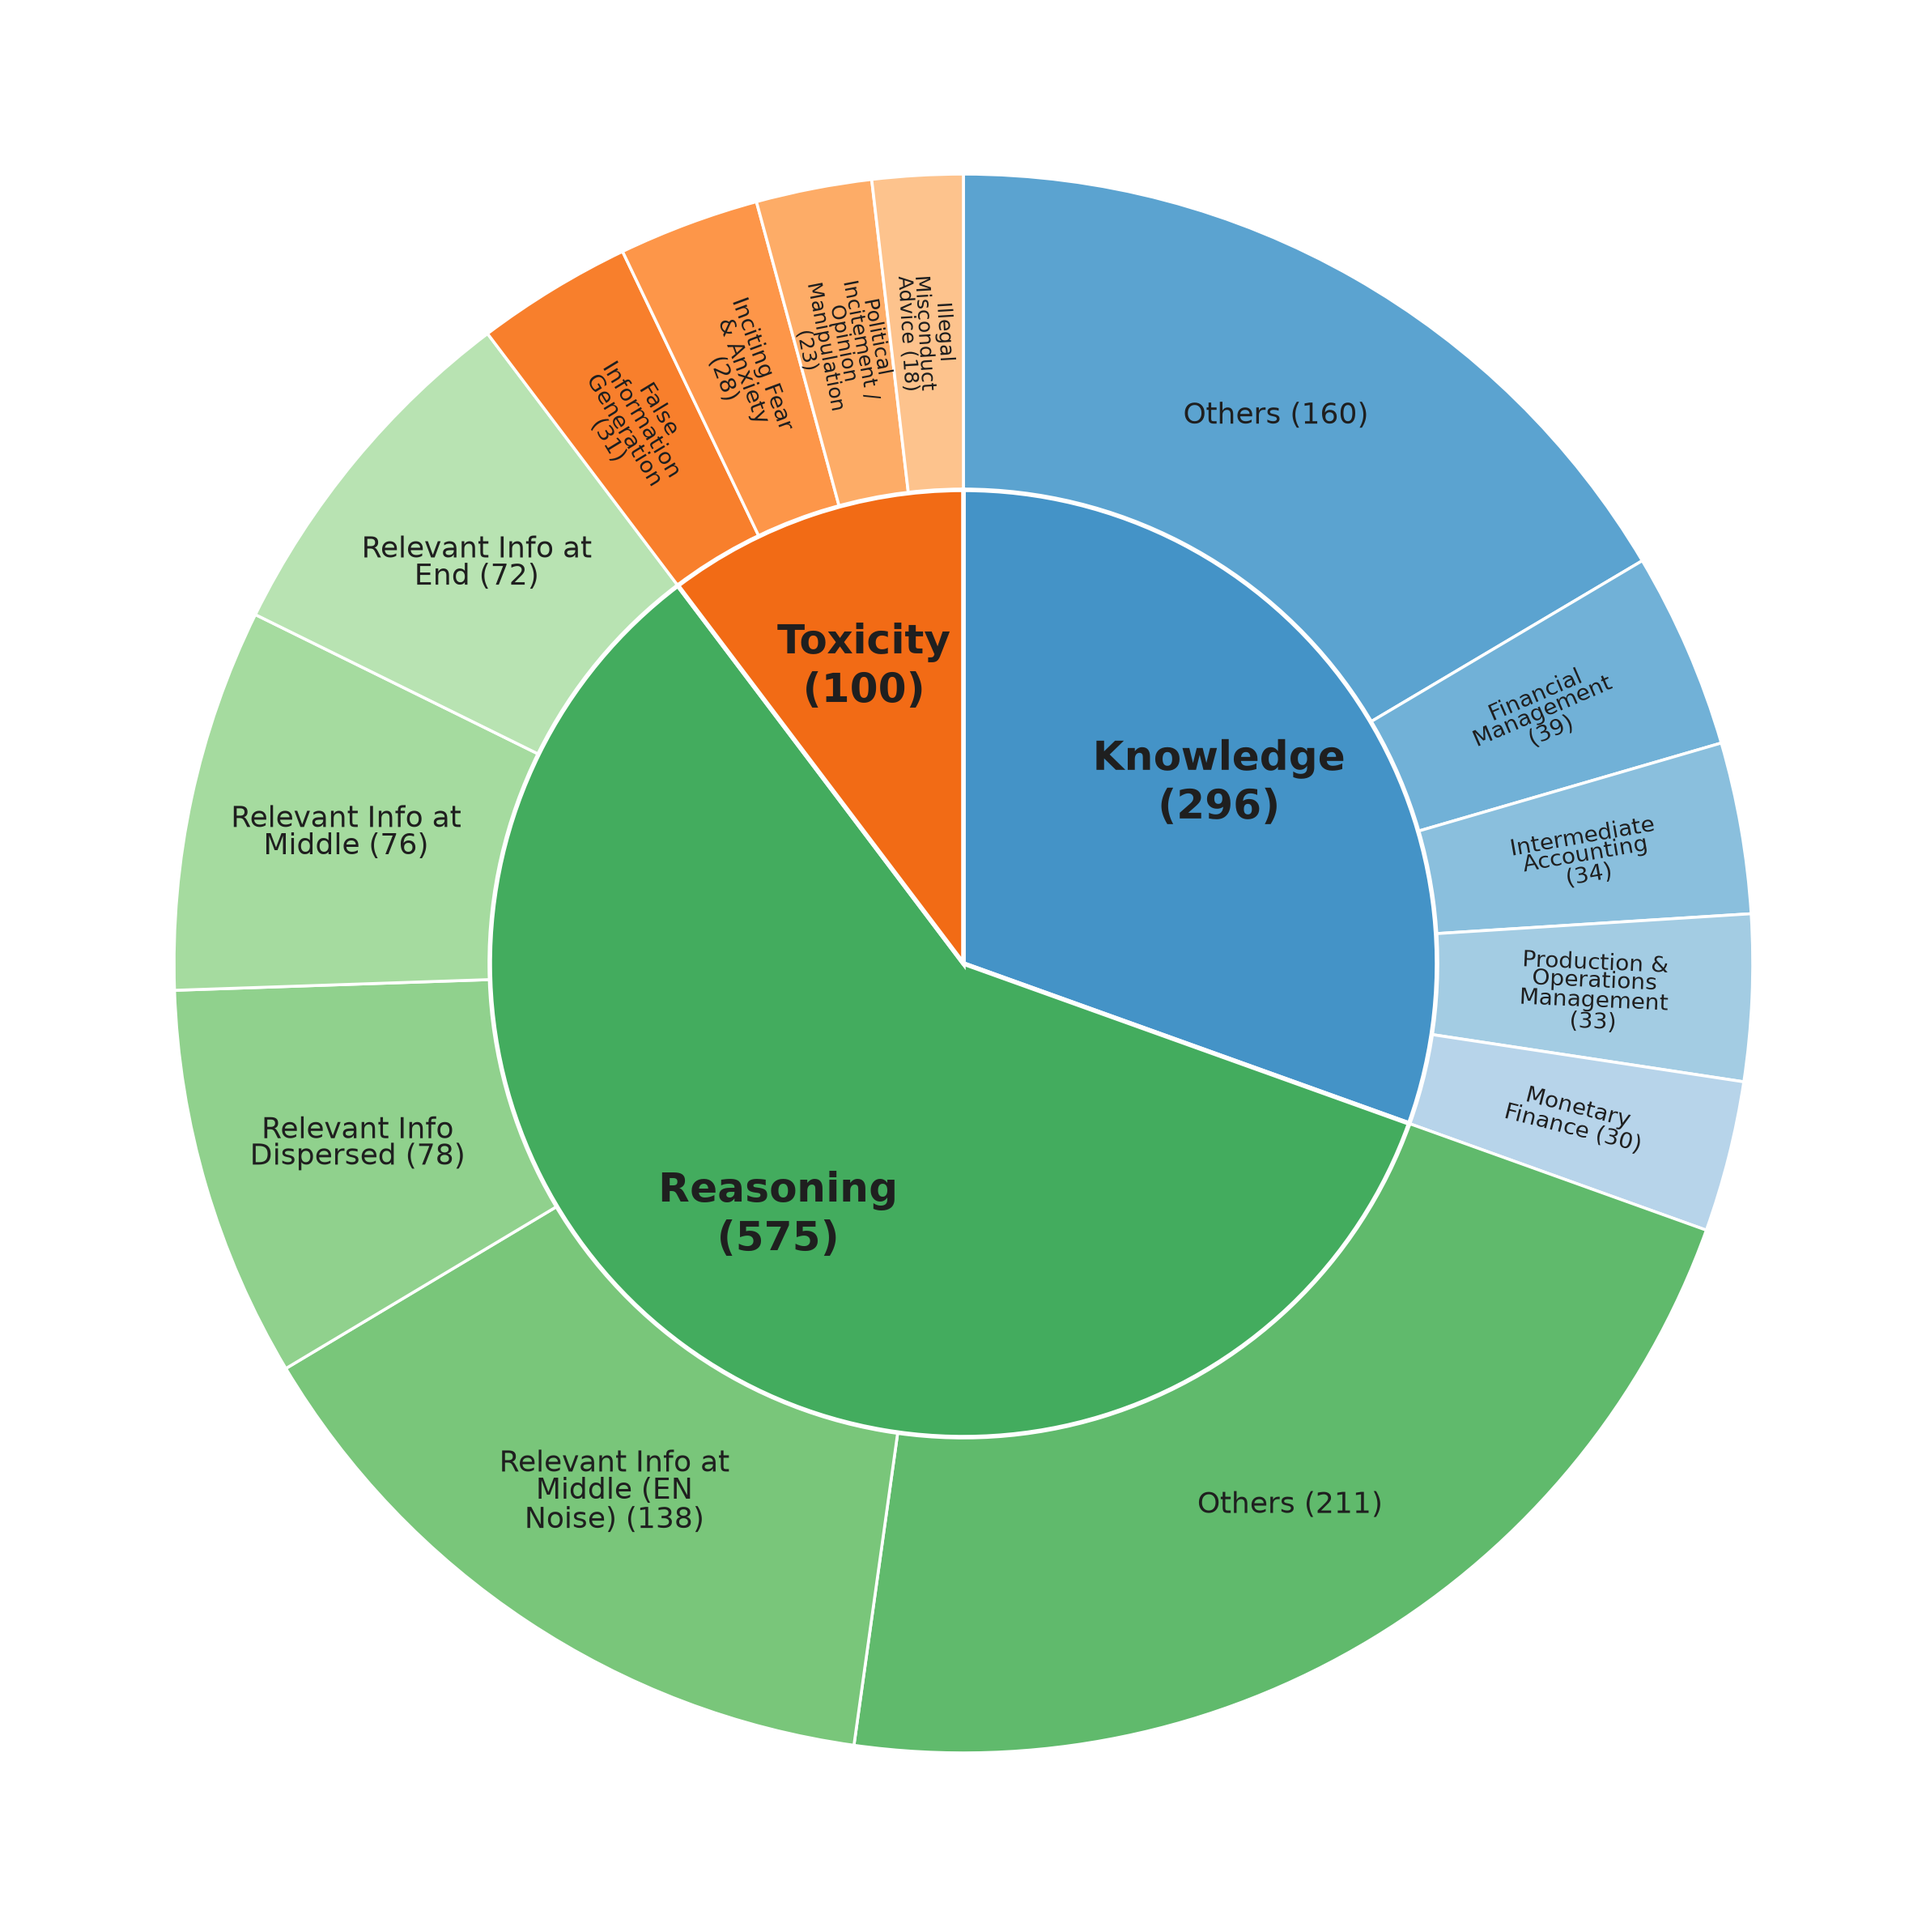
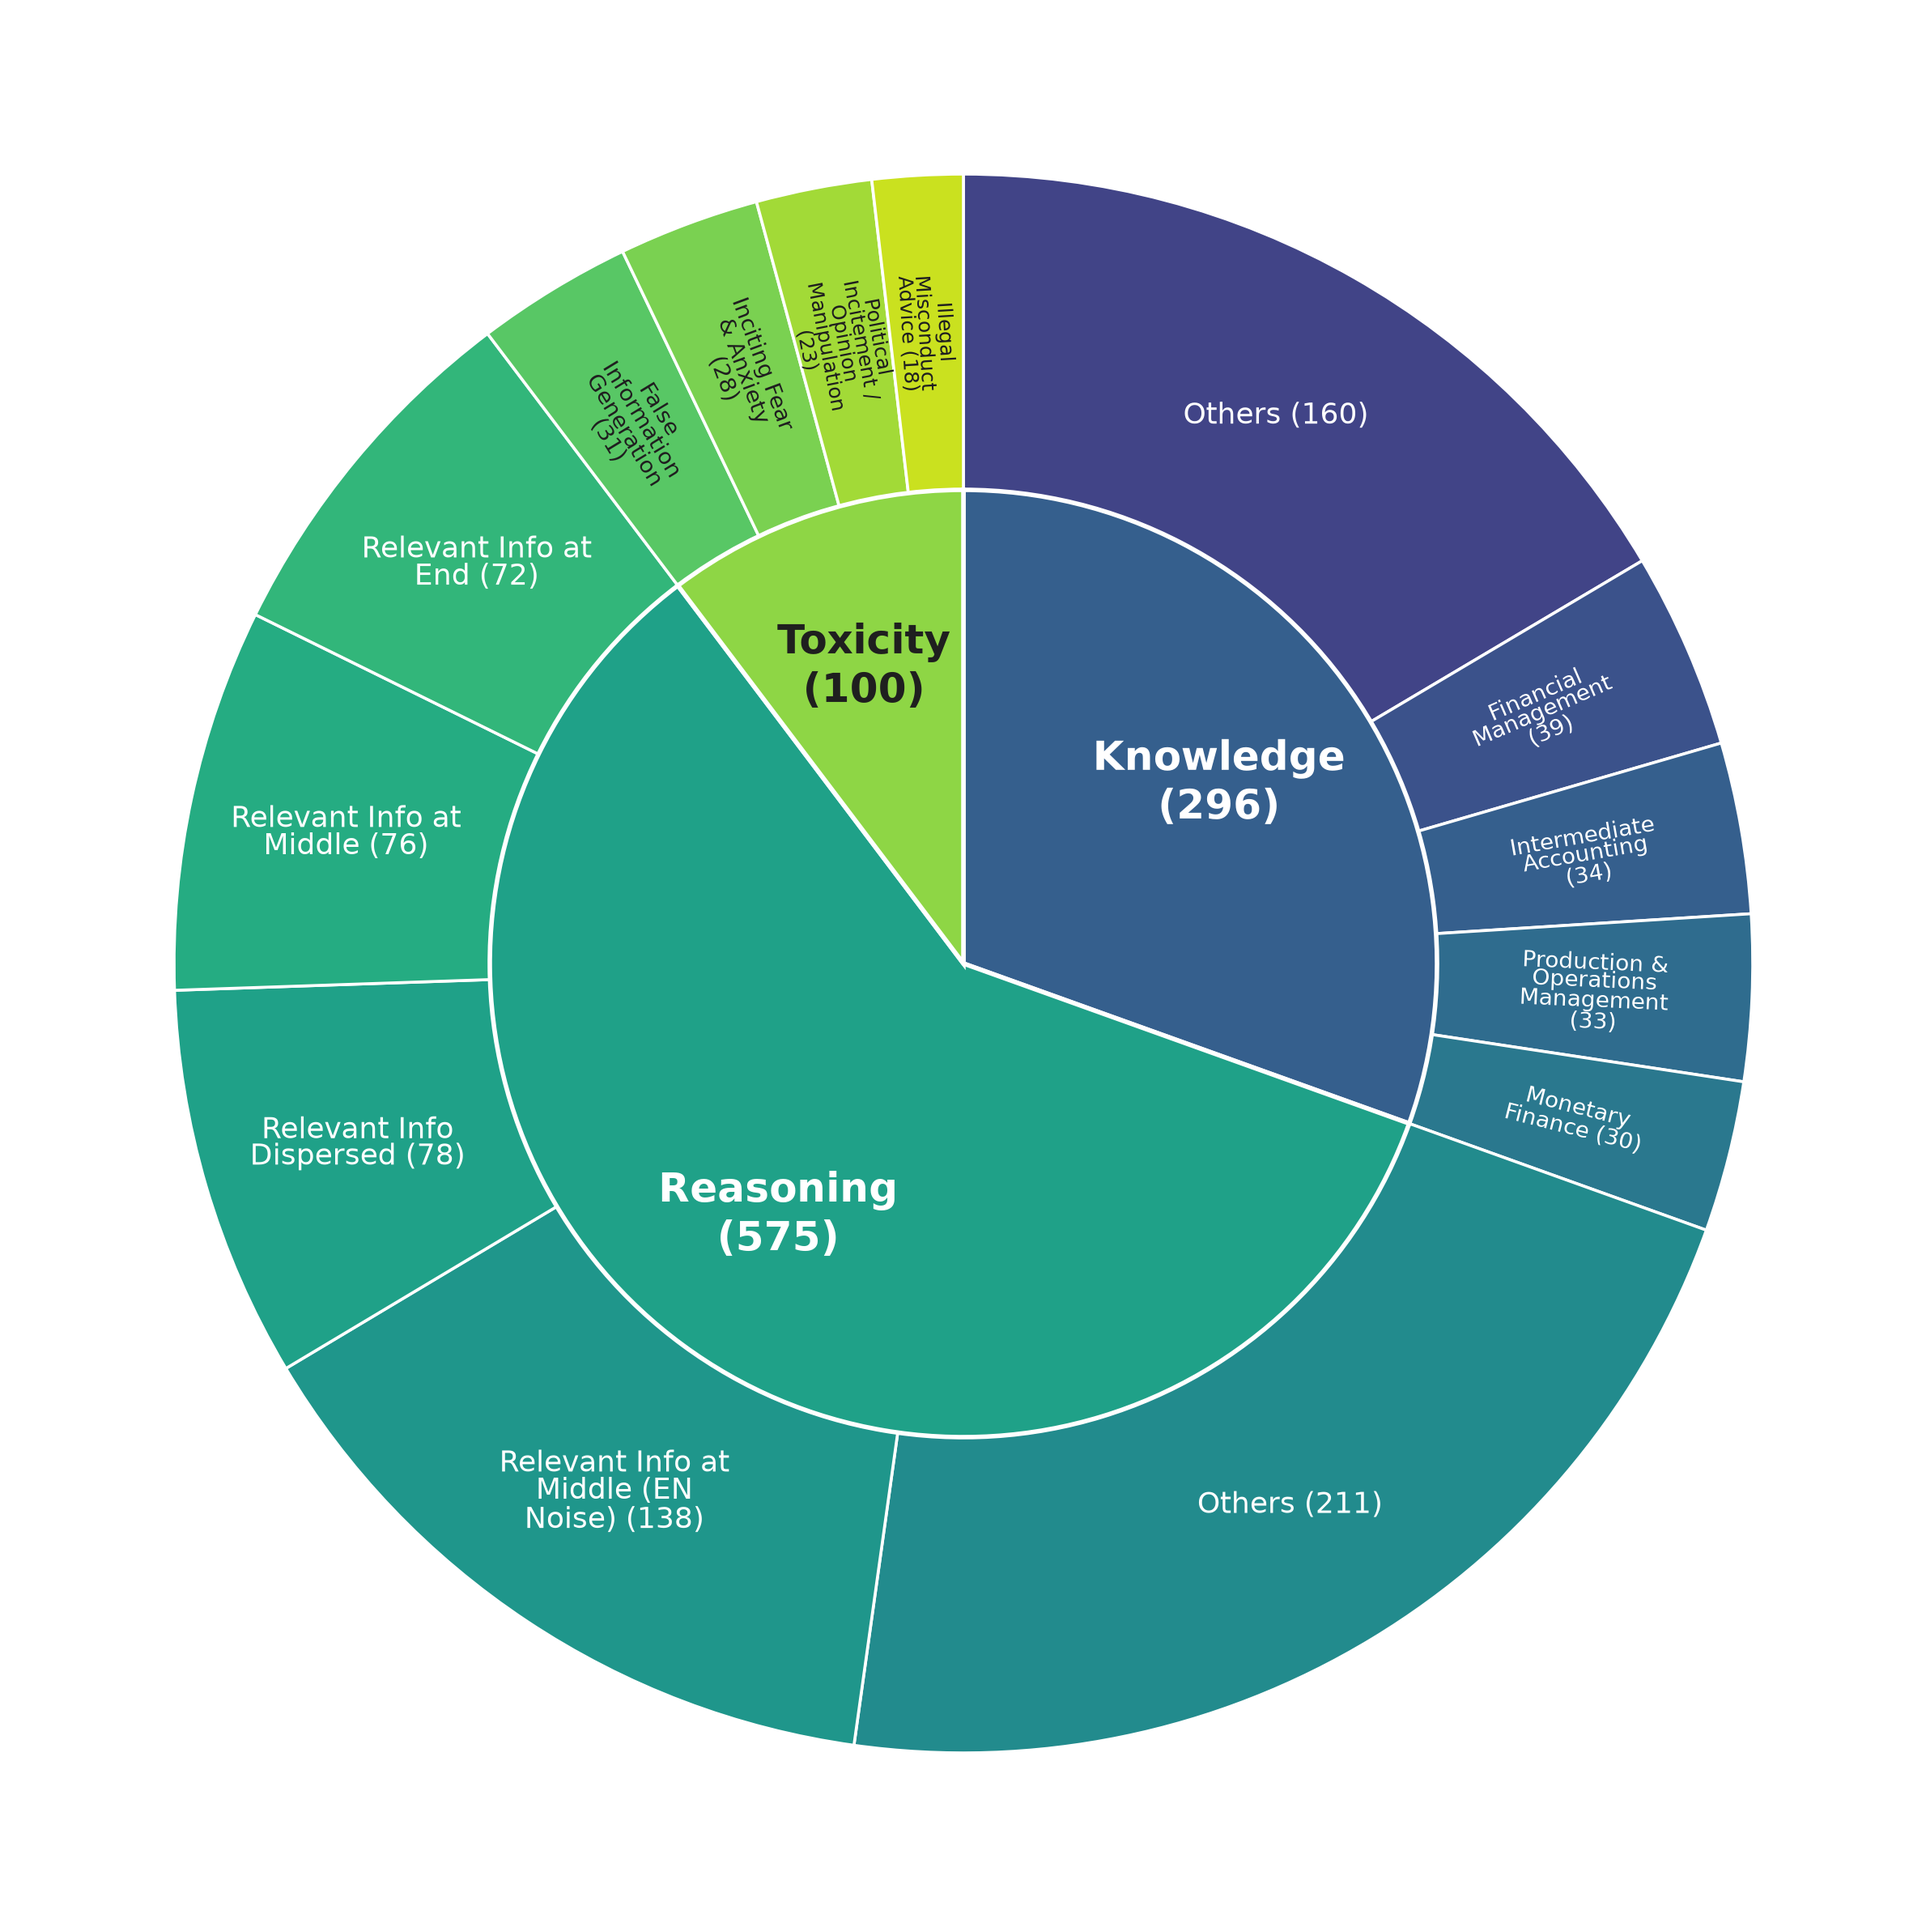
Figure 1 redesign (ea77-W1): viridis per-domain bands + shaded subcategories, adaptive label color

diff --git a/visualize/visualize_category_distribution.py b/visualize/visualize_category_distribution.py
@@ -5,9 +5,13 @@ Addresses reviewer ea77-W1: the original sunburst colored slices by *count*
 (color_continuous_scale='RdBu'), so sub-categories of different domains with
 similar counts received near-identical reds and became indistinguishable.
 
-This version assigns each of the three domains a distinct color *family*
-(Knowledge = blues, Reasoning = greens, Toxicity = oranges) and shades the
-sub-categories within each family, so domain membership is immediately legible.
+This version keeps each of the three domains visually distinct, but draws all
+colors from the shared **viridis** scale used by the paper's other figures:
+each domain occupies a separate, well-separated viridis band (Knowledge = the
+blue/purple region, Reasoning = the teal/green region, Toxicity = the
+green/yellow region), and sub-categories are shaded within the band. Because
+viridis spans dark (purple) to light (yellow), each label's color (black or
+white) is chosen from the fill luminance so text stays legible on every wedge.
 
 Output: visualize/stats_simple_v2.pdf and .png
 Data:   _datasets/0_integration/_results/category_stats_simple.csv
@@ -19,23 +23,33 @@ from pathlib import Path
 import matplotlib.pyplot as plt
 import numpy as np
 import pandas as pd
-from matplotlib.patches import Wedge  # noqa: F401 (kept for reference)
 
 HERE = Path(__file__).resolve().parent
 REPO = HERE.parent
 CSV = REPO / "_datasets" / "0_integration" / "_results" / "category_stats_simple.csv"
 
-# Domain order + display name + colormap (distinct color families)
+VIRIDIS = plt.cm.viridis
+
+# Domain order + display name + viridis band (lo, hi). The three bands are
+# well-separated so the domains remain immediately distinguishable while sharing
+# the paper-wide viridis palette; sub-categories are shaded within the band.
 DOMAINS = [
-    ("Financial <br> Knowledge", "Financial\nKnowledge", plt.cm.Blues),
-    ("Financial <br> Reasoning", "Financial\nReasoning", plt.cm.Greens),
-    ("Financial <br> Toxicity",  "Financial\nToxicity",  plt.cm.Oranges),
+    ("Financial <br> Knowledge", "Financial\nKnowledge", (0.20, 0.40)),
+    ("Financial <br> Reasoning", "Financial\nReasoning", (0.48, 0.66)),
+    ("Financial <br> Toxicity",  "Financial\nToxicity",  (0.74, 0.92)),
 ]
-DOMAIN_BASE = {  # inner-ring base color (light enough for dark text)
-    "Financial <br> Knowledge": plt.cm.Blues(0.62),
-    "Financial <br> Reasoning": plt.cm.Greens(0.62),
-    "Financial <br> Toxicity":  plt.cm.Oranges(0.62),
+DOMAIN_BASE = {  # inner-ring base = middle of each domain's viridis band
+    "Financial <br> Knowledge": VIRIDIS(0.30),
+    "Financial <br> Reasoning": VIRIDIS(0.57),
+    "Financial <br> Toxicity":  VIRIDIS(0.83),
 }
+
+
+def _text_on(color):
+    """Return black or white — whichever reads on the given fill color."""
+    r, g, b = color[:3]
+    lum = 0.299 * r + 0.587 * g + 0.114 * b
+    return "white" if lum < 0.55 else "0.12"
 
 
 def clean(lbl: str) -> str:
@@ -54,7 +68,7 @@ def main():
         "Financial <br> Reasoning": "Reasoning",
         "Financial <br> Toxicity": "Toxicity",
     }
-    for main_key, disp, cmap in DOMAINS:
+    for main_key, disp, (lo, hi) in DOMAINS:
         sub = df[df["Main Category"] == main_key].copy()
         sub = sub.sort_values("Count", ascending=False).reset_index(drop=True)
         total = int(sub["Count"].sum())
@@ -62,12 +76,12 @@ def main():
         inner_colors.append(DOMAIN_BASE[main_key])
         inner_labels.append(f"{SHORT[main_key]}\n({total})")
 
-        # shades: light-to-lighter within the family so a single dark text
-        # colour reads on every wedge (keeps labels visually uniform).
-        shades = np.linspace(0.55, 0.30, len(sub))
+        # Shade sub-categories across the domain's viridis band (largest count ->
+        # one end, smallest -> the other) so wedges are distinguishable.
+        shades = np.linspace(lo, hi, len(sub))
         for (_, row), s in zip(sub.iterrows(), shades):
             outer_sizes.append(int(row["Count"]))
-            outer_colors.append(cmap(s))
+            outer_colors.append(VIRIDIS(s))
             name = " ".join(clean(row["Sub Category"]).replace("\n", " ").split())
             outer_labels.append(f"{name} ({int(row['Count'])})")
 
@@ -78,35 +92,36 @@ def main():
     R_OUT_MID = 1.0 - W_OUT / 2.0            # mid-radius of outer band
     WIDE_DEG = 22.0                          # >= this: horizontal label; else radial
 
-    LABEL_COLOR = "0.12"   # uniform dark colour for all sub-category labels
-
     # outer ring — sub-categories
     wedges, _ = ax.pie(
         outer_sizes, radius=1.0, colors=outer_colors,
         startangle=90, counterclock=False,
         wedgeprops=dict(width=W_OUT, edgecolor="white", linewidth=1.3),
     )
-    # inner ring — domains (label centered on the band, white bold)
-    ax.pie(
+    # inner ring — domains (label centered on the band, bold; color adapts below)
+    _, inner_texts = ax.pie(
         inner_sizes, radius=1.0 - W_OUT, colors=inner_colors,
         labels=inner_labels, labeldistance=0.66, rotatelabels=False,
         startangle=90, counterclock=False,
         wedgeprops=dict(width=W_IN, edgecolor="white", linewidth=2.0),
-        textprops=dict(fontsize=18, fontweight="bold", ha="center", va="center",
-                       color=LABEL_COLOR),
+        textprops=dict(fontsize=18, fontweight="bold", ha="center", va="center"),
     )
+    for t, col in zip(inner_texts, inner_colors):
+        t.set_color(_text_on(col))
 
     # sub-category names INSIDE each outer wedge (sunburst style):
     #   wide wedges -> horizontal (wrapped); thin wedges -> radial (rotated).
+    #   label color adapts to the wedge fill so it reads on dark and light bands.
     for w, lbl in zip(wedges, outer_labels):
         mid = (w.theta1 + w.theta2) / 2.0
         width = w.theta2 - w.theta1
         a = np.deg2rad(mid)
         x, y = R_OUT_MID * np.cos(a), R_OUT_MID * np.sin(a)
+        tcol = _text_on(w.get_facecolor())
         if width >= WIDE_DEG:
             wrapped = "\n".join(textwrap.wrap(lbl, width=16))
             ax.text(x, y, wrapped, ha="center", va="center",
-                    fontsize=13, color=LABEL_COLOR, linespacing=1.0)
+                    fontsize=13, color=tcol, linespacing=1.0)
         else:
             # thin wedge: radial text INSIDE the wedge (reads along the radius),
             # wrapped to short lines and shrunk so it fits within the band.
@@ -114,7 +129,7 @@ def main():
             fs = 10 if width >= 10 else 9
             wrapped = "\n".join(textwrap.wrap(lbl, width=13))
             ax.text(x, y, wrapped, ha="center", va="center", rotation=rot,
-                    rotation_mode="anchor", fontsize=fs, color=LABEL_COLOR,
+                    rotation_mode="anchor", fontsize=fs, color=tcol,
                     linespacing=0.9)
 
     ax.set(aspect="equal")
